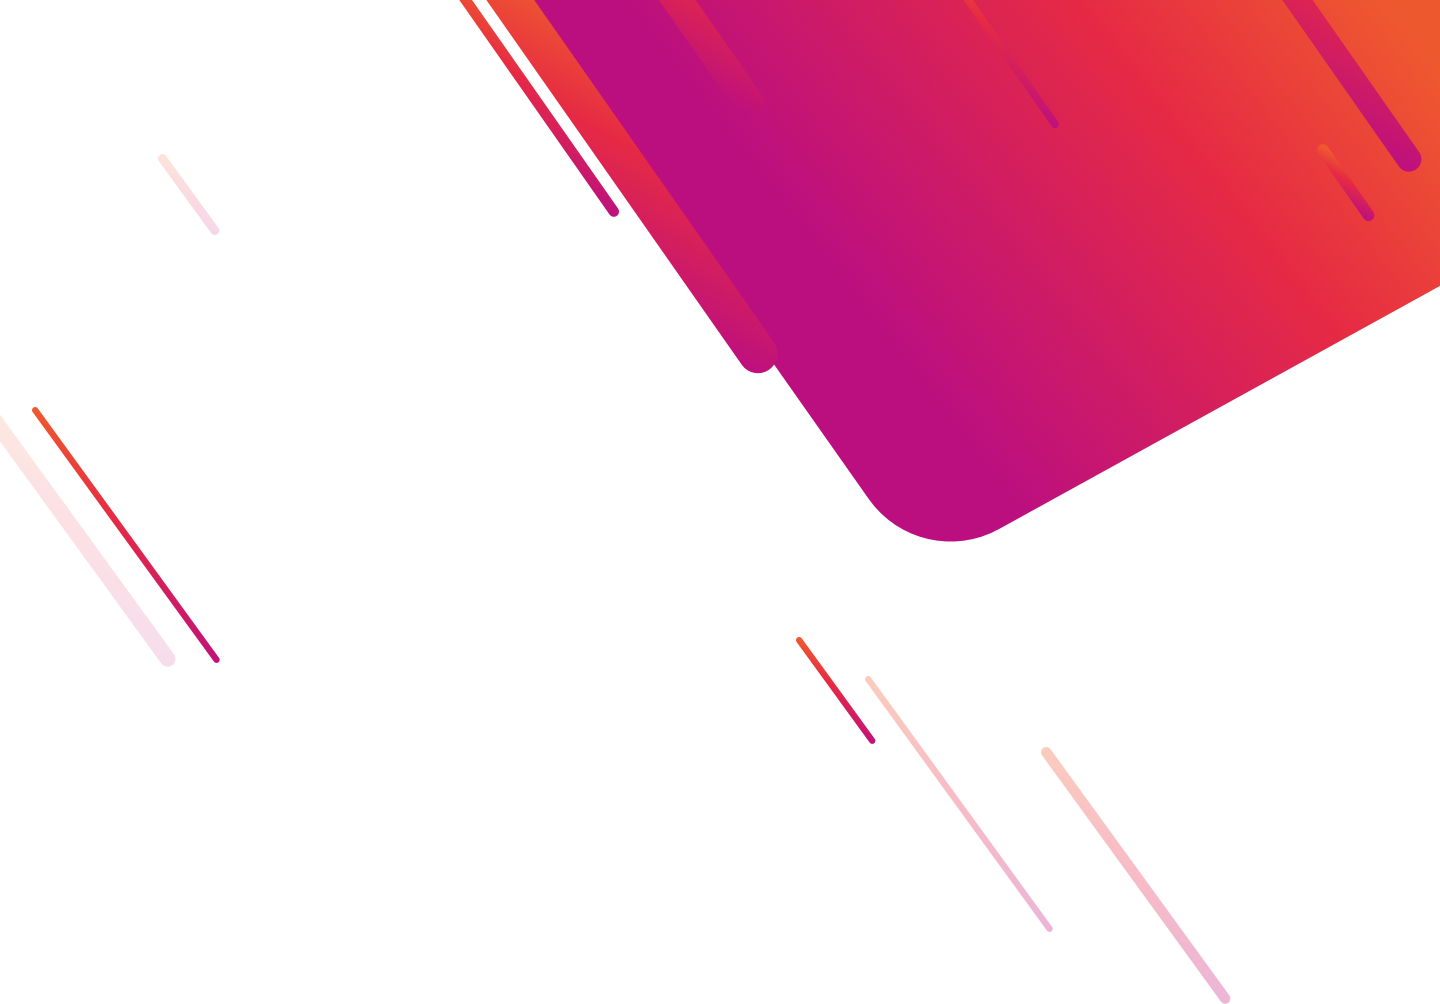
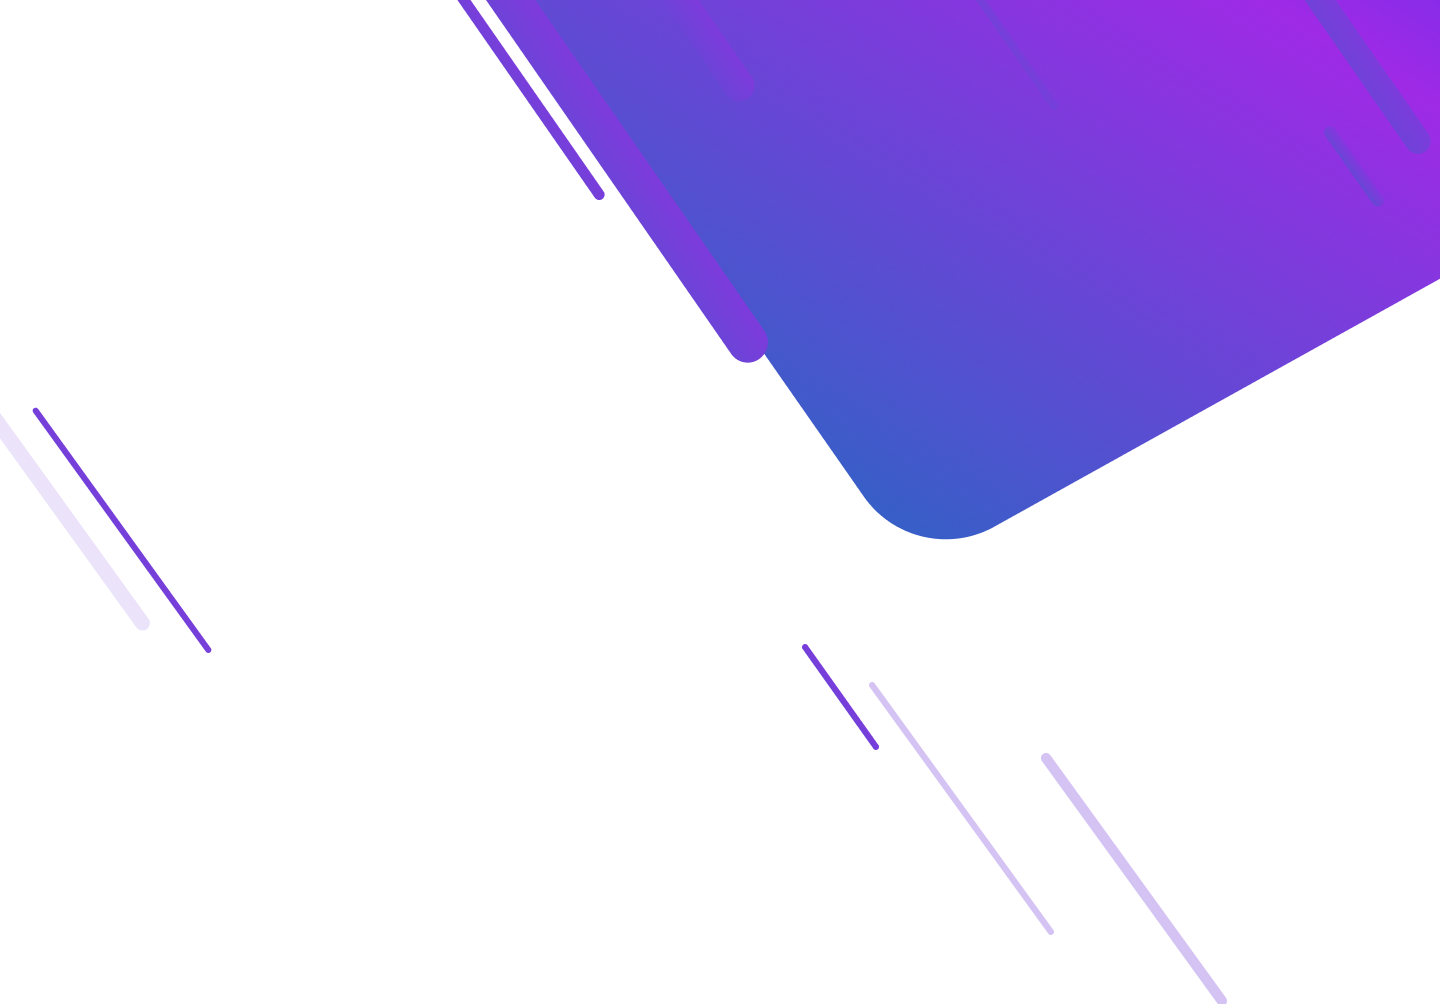
ROI DE UX 2.0

diff --git a/styles/main.css b/styles/main.css
@@ -7038,14 +7038,14 @@ button.close {
 }
 
 .page-calculadora .card ul li:before,.page-calculadora .form-horizontal.calculadora .btn-custom,.principal .form-inline .btn.btn-custom,.quem-somos {
-    background: #bb0f80;
-    background: linear-gradient(90deg,#bb0f80 0,#e62a44 50%,#ee582f);
-    filter: progid:DXImageTransform.Microsoft.gradient(startColorstr="#bb0f80",endColorstr="#ee582f",GradientType=1)
+    background: #4A2FEE;
+    background: linear-gradient(90deg,#4A2FEE 0,#9F2AE6 50%,#0F73BB);
+    filter: progid:DXImageTransform.Microsoft.gradient(startColorstr="#4A2FEE",endColorstr="#ee582f",GradientType=1)
 }
 
 .top div:before,.workshops {
     background: #eef1f6;
-    background: linear-gradient(270deg,#eef1f6 0,#f5f7f9 50%,#fcfdfd);
+    background: linear-gradient(90deg,#4A2FEE 0,#9F2AE6 50%,#0F73BB);
     filter: progid:DXImageTransform.Microsoft.gradient(startColorstr="#eef1f6",endColorstr="#fcfdfd",GradientType=1)
 }
 
@@ -7091,8 +7091,9 @@ body {
 }
 
 .principal h1 {
-    color: rgba(133,145,176,.5);
+    color: #C892E7;
     font-size: 20px;
+    font-weight: bold;
     text-transform: uppercase
 }
 
@@ -7202,7 +7203,7 @@ body {
 }
 
 .principal .card a:link, .principal .card a:hover, .principal .card a:active {
-    width: 280px;
+    width: 420px;
     min-height: 41px;
     text-align: center;
     line-height: 33px;
@@ -7210,8 +7211,8 @@ body {
     text-transform: uppercase;
     color: #fff;
     border: 2px solid inherit;
-    background: 2px linear-gradient(90deg,#bb0f80 0,#e62a44 50%,#ee582f);
-    filter: progid:DXImageTransform.Microsoft.gradient(startColorstr="#bb0f80",endColorstr="#ee582f",GradientType=1);
+    background: 2px linear-gradient(90deg,#0F73BB 0,#9F2AE6 50%,#4A2FEE);
+    filter: progid:DXImageTransform.Microsoft.gradient(startColorstr="#4A2FEE",endColorstr="#ee582f",GradientType=1);
     display: table;
     margin: 0px auto;
     outline: none;
@@ -7225,19 +7226,19 @@ body {
 }
 
 
-.principal .card a .btn-custom span:before {
+/*.principal .card a .btn-custom span:before {
     content: url(../images/medium-icon.svg);
     margin-right: 7px;
     margin-left: -7px;
-}
+}*/
 
 .secao-calculadoras {
     padding: 50px 50px 0
 }
 
 .secao-calculadoras h1 {
-    background: #bb0f80;
-    background: linear-gradient(90deg,#bb0f80 0,#e62a44 50%,#ee582f);
+    background: #0F73BB;
+    background: linear-gradient(90deg,#0F73BB 0,#9F2AE6 50%,#4A2FEE);
     color: transparent;
     -webkit-background-clip: text;
     background-clip: text;
@@ -7285,7 +7286,7 @@ body {
 }
 
 .secao-calculadoras .card .link a:hover {
-    color: #bb0f80;
+    color: #4A2FEE;
     text-decoration: none;
 }
 
@@ -7419,8 +7420,8 @@ body {
 }
 
 .workshops .cta a,.workshops .cta a i {
-    background: #bb0f80;
-    background: linear-gradient(90deg,#bb0f80 0,#e62a44 50%,#ee582f);
+    background: #4A2FEE;
+    background: linear-gradient(90deg,#0F73BB 0,#9F2AE6 28%,#4A2FEE);
     color: transparent;
     -webkit-background-clip: text;
     background-clip: text
@@ -7452,8 +7453,8 @@ footer i {
 }
 
 .top i {
-    background: #bb0f80;
-    background: linear-gradient(90deg,#bb0f80 0,#e62a44 50%,#ee582f);
+    background: #FFFFFF;
+    background: linear-gradient(90deg,#0F73BB 0,#9F2AE6 28%,#4A);
     color: transparent;
     -webkit-background-clip: text;
     background-clip: text
@@ -7505,7 +7506,7 @@ footer i {
     content: "";
     width: 4px;
     height: 90%;
-    background-color: #d51f5a;
+    background-color: #4A2FEE;
     position: absolute;
     top: 70px;
     left: -25px;
@@ -7562,7 +7563,7 @@ footer i {
 .page-calculadora .form-horizontal.calculadora input,.page-calculadora .form-horizontal.calculadora select {
     height: 30px;
     border-radius: 5px;
-    border: 1px solid #bb0f80;
+    border: 1px solid #4A2FEE;
     color: #4d4d4d;
     text-align: center;
     display: inline-block;
@@ -7603,7 +7604,7 @@ footer i {
     content: "";
     width: 4px;
     height: 100%;
-    background-color: #d51f5a;
+    background-color: #4A2FEE;
     position: absolute;
     top: 10px;
     left: -50px;
@@ -7620,7 +7621,7 @@ footer i {
 
 .page-calculadora .resultados h3 {
     font-size: 45px;
-    color: #d21e61;
+    color: #4A2FEE;
     letter-spacing: .9px;
     font-weight: 700;
     margin: 0;
@@ -7656,8 +7657,8 @@ footer i {
     }
 
     .slicknav_nav {
-        background: #bb0f80;
-        background: linear-gradient(180deg,#bb0f80 0,#e62a44 50%,#ee582f);
+        background: #4A2FEE;
+        background: linear-gradient(180deg,#0F73BB 0,#9F2AE6 28%,#4A2FEE);
         width: 60%;
         position: absolute;
         top: 70px;
@@ -7669,7 +7670,7 @@ footer i {
         padding: 10px;
         color: #fff;
         font-weight: 700;
-        border-bottom: 1px solid #bb0f80
+        border-bottom: 1px solid #4A2FEE
     }
 
     .slicknav_nav li:last-child a {
@@ -7727,8 +7728,8 @@ footer i {
     }
 
     .slicknav_nav {
-        background: #bb0f80;
-        background: linear-gradient(180deg,#bb0f80 0,#e62a44 50%,#ee582f);
+        background: #4A2FEE;
+        background: linear-gradient(180deg,#0F73BB 0,#9F2AE6 50%,#4A2FEE);
         width: 60%;
         position: absolute;
         top: 70px;
@@ -7740,7 +7741,7 @@ footer i {
         padding: 10px;
         color: #fff;
         font-weight: 700;
-        border-bottom: 1px solid #bb0f80
+        border-bottom: 1px solid #FFF
     }
 
     .slicknav_nav li:last-child a {
@@ -7806,8 +7807,8 @@ footer i {
     }
 
     .quem-somos {
-        background: #bb0f80;
-        background: linear-gradient(180deg,#bb0f80 0,#e62a44 50%,#ee582f);
+        background: #4A2FEE;
+        background: linear-gradient(180deg,#0F73BB 0,#9F2AE6 50%,#4A2FEE);
         text-align: center;
         padding: 50px 10px;
         padding-bottom: 0px;
@@ -7850,7 +7851,7 @@ footer i {
         width: 20px;
         height: 5px;
         border: 0;
-        background-color: #bb0f80
+        background-color: #4A2FEE
     }
 
     .page-calculadora {

diff --git a/index.html b/index.html
@@ -56,34 +56,22 @@
 	<div class="container-fluid">
 		<section class="principal" id="principal">
 			<div class="row">
-				<div class="col-lg-5 col-md-6 hidden-sm hidden-xs">
-					<h1>Nunca mais se preocupe em justificar<br>a user experience de novo.</h1>
-					<!--h2>Preparamos um conteúdo especial para você</h2>
-					<form class="form-inline" action="https://uxer.us8.list-manage.com/subscribe/post?u=5d39f0ef1d3dfee1aff26d545&amp;id=dca2aa6516" method="post" id="mc-embedded-subscribe-form" name="mc-embedded-subscribe-form" class="validate" target="_blank" novalidate><div class="form-group"><label class="sr-only" for="exampleInputEmail3">Seu e-mail</label>
-						<input type="email" class="form-control" for="mce-EMAIL" id="exampleInputEmail3" placeholder="Seu e-mail"></div>
-						<button type="submit" class="btn btn-custom">Assine</button>
-					</form-->
+				<div class="col-lg-5 col-md-6">
+					<h1>Descubra como valorizar o design e impulsionar sua carreira!</h1>
 				</div>
 
 				<div class="col-lg-7 col-md-6 col-sm-12">
 					<div class="card">
-						<h3>Como a UX influência o retorno de investimento de um negócio?</h3>
-						<p>Quando começamos a trabalhar com arquitetura de informação e usabilidade, a noção de “UX” ainda era uma coisa nova. Muitas vezes eu me pegava tentando explicar o que significava UX e por que era importante. Agora, quase 10 anos depois, a conscientização sobre UX é muito maior, mas a maioria dos profissionais da UX ainda gastam uma boa parte do tempo justificando por que as empresas deveriam gastar tempo e dinheiro com eles.</p><p>A questão é simples: <em>UX vale o investimento?</em></p>
-						<a href="https://brasil.uxdesign.cc/roi-de-ux-ad993bf5346f" target="_Blank" title="Leia o artigo na íntegra">
-							<p class="btn-custom"><span>Leia o artigo na íntegra</span></p>
+						<h3>Participe Gratuitamente da Masterclass de ROI DE UX!</h3>
+						<p>Você quer aprender como mostrar o valor do design e dar um impulso na sua carreira? Então esta Masterclass é para você! Venha descobrir como comunicar a importância do design em uma linguagem que os negócios entendem e como isso pode transformar sua abordagem.</p>
+						<p>Olá, meu nome é Gui Gonzalez e eu te convido para a Masterclass de ROI DE UX. Nesta aula 100% gratuita, vou compartilhar dicas valiosas e estratégias para você se destacar no mercado. Não perca esta oportunidade de crescer profissionalmente!</p>
+						<a href="#" target="_blank" title="Se inscreva na Masterclass">
+							<p class="btn-custom"><span>Se inscreva na Masterclass 100% Gratuita</span></p>
 						</a>
 					</div>
-				</div>		
-							
-				<div class="col-xs-12 col-sm-10 col-sm-offset-1 cta-email visible-xs visible-sm">
-					<h1>Nunca mais se preocupe justificar<br>a user experience de novo.</h1>
-					<h2>Preparamos um conteúdo especial para você</h2><form class="form-inline">
-					<div class="form-group"><label class="sr-only" for="exampleInputEmail3">Seu e-mail</label>
-						<input type="email" class="form-control" id="exampleInputEmail3" placeholder="Seu e-mail">
+
 					</div>
-					
-					<button type="submit" class="btn btn-custom">Assine</button></form>
-				</div>
+				</div>		
 			</div>
 		</section>
 	
@@ -286,7 +274,7 @@
 	<section class="footer">
 			
 		<footer>
-			<p class="text-center">Feito com <i class="fas fa-heart"></i> no Brasil © 2020</p>
+			<p class="text-center">Feito com <i class="fas fa-heart"></i> no Brasil © 2018-2024 por Guilherme Gonzalez</p>
 		</footer>
 
 		<a href="#top" class="top">
